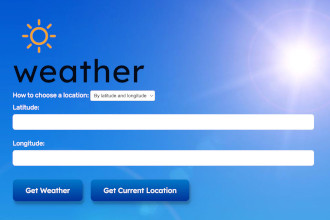
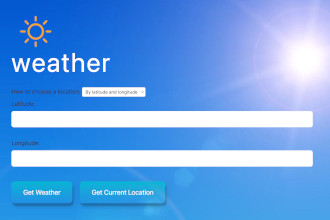
New Navbar/Header
Also did some minor styling changes to accommodate the new header

diff --git a/src/components/Header.svelte b/src/components/Header.svelte
@@ -1,42 +1,58 @@
-<script lang="ts">
-	import { onMount } from 'svelte';
+<script>
 	import Icon from '$components/Icon.svelte';
 	import 'iconify-icon';
-
-	let handleNavToggle: () => void;
-
-	onMount(() => {
-		const nav = document.querySelector('nav');
-		if (nav) {
-			handleNavToggle = () => {
-				nav.dataset.transitionable = 'true';
-
-				nav.dataset.toggled = nav.dataset.toggled === 'true' ? 'false' : 'true';
-			};
-			window.matchMedia('(max-width: 800px)').onchange = (e) => {
-				nav.dataset.transitionable = 'false';
-
-				nav.dataset.toggled = 'false';
-			};
-		}
-	});
 </script>
 
-<header>
-	<nav data-toggled="false" data-transitionable="false">
-		<div id="nav-logo-section" class="nav-section">
-			<a href="/">
-				<iconify-icon icon="mdi:code-braces" />
-				<p>Reza Banankhah</p>
-			</a>
-		</div>
-		<div id="nav-mobile-section">
-			<div id="nav-link-section" class="nav-section">
-				<a href="/projects" on:click={handleNavToggle}>Projects</a>
-				<a href="/resume" on:click={handleNavToggle}>Resume</a>
-				<a href="/about" on:click={handleNavToggle}>About</a>
-			</div>
-			<div id="nav-social-section" class="nav-section">
+<div class="navbar h-[10vh] border-b bg-base-100">
+	<div class="navbar-start">
+		<a href="/" class="btn-ghost btn text-xl normal-case hover:bg-gray-200 hover:text-black">
+			<iconify-icon icon="mdi:code-braces" class="mr-2 text-4xl" />
+			Reza Banankhah
+		</a>
+	</div>
+	<div class="navbar-center hidden lg:flex">
+		<ul class="menu menu-horizontal px-1">
+			<li>
+				<a href="/projects" class="btn-ghost btn hover:bg-gray-200 hover:text-black">
+					Projects
+					<svg
+						class="fill-current"
+						xmlns="http://www.w3.org/2000/svg"
+						width="20"
+						height="20"
+						viewBox="0 0 24 24"
+						><path d="M7.41,8.58L12,13.17L16.59,8.58L18,10L12,16L6,10L7.41,8.58Z" /></svg
+					>
+				</a>
+				<ul class="dropdown-content menu rounded-box menu-compact z-10 bg-base-100 p-2 shadow-md">
+					<li>
+						<a href="https://reza-sveltype.vercel.app/" class="hover:bg-gray-200 hover:text-black"
+							>Sveltype</a
+						>
+					</li>
+					<li>
+						<a href="/projects/maze" class="hover:bg-gray-200 hover:text-black">Maze Solver</a>
+					</li>
+					<li>
+						<a href="/projects/weather" class="hover:bg-gray-200 hover:text-black">Weather App</a>
+					</li>
+					<li>
+						<a href="/projects/tictactoe" class="hover:bg-gray-200 hover:text-black">Tic Tac Toe</a>
+					</li>
+				</ul>
+			</li>
+			<li><a href="/resume" class="btn-ghost btn hover:bg-gray-200 hover:text-black">Resume</a></li>
+			<li><a href="/about" class="btn-ghost btn hover:bg-gray-200 hover:text-black">About</a></li>
+			<li>
+				<a href="/contact" class="btn-ghost btn hover:bg-gray-200 hover:text-black">Contact</a>
+			</li>
+		</ul>
+	</div>
+	<div class="navbar-end">
+		<div class="dropdown dropdown-end">
+			<div
+				class="flex flex-grow items-center justify-center gap-12 py-10 px-6 text-xl max-lg:hidden"
+			>
 				<Icon icon="github" />
 				<Icon icon="linkedin" />
 				<Icon icon="mail" />
@@ -44,114 +60,34 @@
 				<Icon icon='instagram' />
         		-->
 			</div>
-			<!-- This page should really just be merged with my about page -->
-			<div id="nav-contact-section" class="nav-section">
-				<a href="/contact" on:click={handleNavToggle}>Contact</a>
-			</div>
+			<!-- svelte-ignore a11y-label-has-associated-control -->
+			<!-- svelte-ignore a11y-no-noninteractive-tabindex -->
+			<label tabindex="0" class="btn-ghost btn hover:bg-gray-200 hover:text-black lg:hidden">
+				<svg
+					xmlns="http://www.w3.org/2000/svg"
+					class="h-5 w-5"
+					fill="none"
+					viewBox="0 0 24 24"
+					stroke="currentColor"
+					><path
+						stroke-linecap="round"
+						stroke-linejoin="round"
+						stroke-width="2"
+						d="M4 6h16M4 12h8m-8 6h16"
+					/></svg
+				>
+			</label>
+			<!-- svelte-ignore a11y-no-noninteractive-tabindex -->
+			<ul
+				tabindex="0"
+				class="dropdown-content menu rounded-box menu-compact mt-3 w-52 bg-base-100 p-2 shadow-md"
+			>
+				<!-- svelte-ignore a11y-no-noninteractive-tabindex -->
+				<li><a href="/projects" class="hover:bg-gray-200">Projects</a></li>
+				<li><a href="/resume" class="hover:bg-gray-200">Resume</a></li>
+				<li><a href="/about" class="hover:bg-gray-200">About</a></li>
+				<li><a href="/contact" class="hover:bg-gray-200">Contact</a></li>
+			</ul>
 		</div>
-		<button id="nav-toggle-button" type="button" on:click={handleNavToggle}>
-			<span>Menu</span>
-			<iconify-icon icon="mdi:menu" />
-		</button>
-	</nav>
-</header>
-
-<style>
-	nav {
-		display: flex;
-		width: 100%;
-		border-bottom: 1px solid var(--border-color);
-	}
-
-	nav .nav-section {
-		padding: 2.5rem 2rem;
-		display: flex;
-		gap: 1rem;
-		border-left: 1px solid var(--border-color);
-		align-items: center;
-		justify-content: center;
-	}
-
-	#nav-mobile-section {
-		display: flex;
-		flex-basis: calc(100% * (2 / 3));
-		z-index: 2;
-	}
-
-	#nav-toggle-button {
-		align-items: center;
-		background-color: transparent;
-		border: none;
-		border-left: 1px solid var(--border-color);
-		color: white;
-		cursor: pointer;
-		display: none;
-		gap: 1rem;
-		height: 100%;
-		justify-content: center;
-		outline: none;
-		padding: 1.7rem 3rem;
-		padding-top: 1.5rem;
-		position: relative;
-		z-index: 3;
-	}
-
-	#nav-toggle-button:hover,
-	#nav-toggle-button:hover > span {
-		color: var(--highlight-color);
-	}
-
-	#nav-toggle-button > span,
-	#nav-toggle-button > iconify-icon {
-		display: inline-block;
-		height: 1rem;
-		line-height: 1rem;
-	}
-
-	#nav-social-section,
-	#nav-contact-section {
-		flex-grow: 1;
-	}
-
-	#nav-logo-section {
-		flex-basis: calc(100% / 3);
-		justify-content: flex-start;
-		z-index: 5;
-	}
-
-	#nav-logo-section > a > iconify-icon,
-	#nav-logo-section > a > p {
-		display: inline-block;
-	}
-
-	#nav-logo-section > a {
-		display: flex;
-		align-items: center;
-	}
-
-	#nav-logo-section > a > iconify-icon {
-		font-size: 2.5rem;
-	}
-
-	#nav-logo-section > a > p {
-		margin-left: 1rem;
-		font-size: 1.5rem;
-	}
-
-	#nav-link-section {
-		flex-basis: 50%;
-		gap: 6rem;
-	}
-
-	#nav-social-section {
-		gap: 3rem;
-	}
-
-	@media screen and (max-width: 1043px) {
-		#nav-logo-section > a > p {
-			position: absolute;
-			opacity: 0;
-			font-size: 0;
-		}
-	}
-</style>
+	</div>
+</div>

diff --git a/src/components/HeaderOld.svelte b/src/components/HeaderOld.svelte
@@ -1,0 +1,55 @@
+<script lang="ts">
+	import Icon from '$components/Icon.svelte';
+	import 'iconify-icon';
+</script>
+
+<header>
+	<nav class="flex h-1/5 w-full border-b border-b-black">
+		<div
+			id="nav-logo-section"
+			class="w-1/5] flex items-center justify-start border-l border-l-black py-10 px-8"
+		>
+			<a href="/" class="flex items-center">
+				<iconify-icon icon="mdi:code-braces" class="inline-block text-4xl" />
+				<p class="ml-4 inline-block text-2xl">Reza Banankhah</p>
+			</a>
+		</div>
+		<div class="flex basis-2/3">
+			<div class="flex items-center justify-center border-l border-l-black py-10 px-4">
+				<a href="/projects" class="px-8">Projects</a>
+				<a href="/resume" class="px-8">Resume</a>
+				<a href="/about" class="px-8">About</a>
+			</div>
+			<div
+				class="flex flex-grow items-center justify-center gap-12 border-l border-l-black py-10 px-8"
+			>
+				<Icon icon="github" />
+				<Icon icon="linkedin" />
+				<Icon icon="mail" />
+				<!--
+				<Icon icon='instagram' />
+        		-->
+			</div>
+			<div
+				class="flex flex-grow items-center justify-center gap-4 border-l border-l-black py-10 px-8"
+			>
+				<a href="/contact">Contact</a>
+			</div>
+		</div>
+		<button
+			type="button"
+			class="relative hidden h-full cursor-pointer items-center justify-center gap-4 border-l border-none border-l-black bg-transparent py-7 px-12 text-white outline-none hover:text-[var(--highlight-color)]"
+		>
+			<span class="inline-block h-4 leading-4 hover:text-[var(--highlight-color)]">Menu</span>
+			<iconify-icon icon="mdi:menu" class="inline-block h-4 leading-4" />
+		</button>
+	</nav>
+</header>
+
+<style>
+	@media screen and (max-width: 1043px) {
+		#nav-logo-section > a > p {
+			display: none;
+		}
+	}
+</style>

diff --git a/src/components/FrontPage/Introduction.svelte b/src/components/FrontPage/Introduction.svelte
@@ -2,7 +2,7 @@
 	import Icon from '$components/Icon.svelte';
 </script>
 
-<div class="inset-0 mx-auto flex h-[89vh] max-w-6xl p-24 justify-center text-black">
+<div class="inset-0 mx-auto flex h-[90vh] max-w-6xl p-24 justify-center text-black">
 	<div class="flex max-w-2xl flex-col gap-5 justify-center">
 		<div class="h-32 w-32">
 			<img src='/images/profile.jpg' alt="" class="rounded-full object-cover object-center" />

diff --git a/src/components/FrontPage/Portfolio.svelte b/src/components/FrontPage/Portfolio.svelte
@@ -55,7 +55,7 @@
 	];
 </script>
 
-<h2 class="text-center text-3xl font-bold">Portfolio</h2>
+<h2 class="text-center text-3xl font-bold mt-4">Portfolio</h2>
 <h3 class="mb-4 text-center">See them in action on my Projects page</h3>
 
 <div class="flex mx-auto max-w-4xl justify-center">

diff --git a/src/routes/+layout.svelte b/src/routes/+layout.svelte
@@ -1,5 +1,5 @@
 <script>
-	import Header from '$components/Header.svelte';
+	import Header from '$root/components/Header.svelte';
 	import '$root/app.css';
 
 	import { inject } from '@vercel/analytics';
